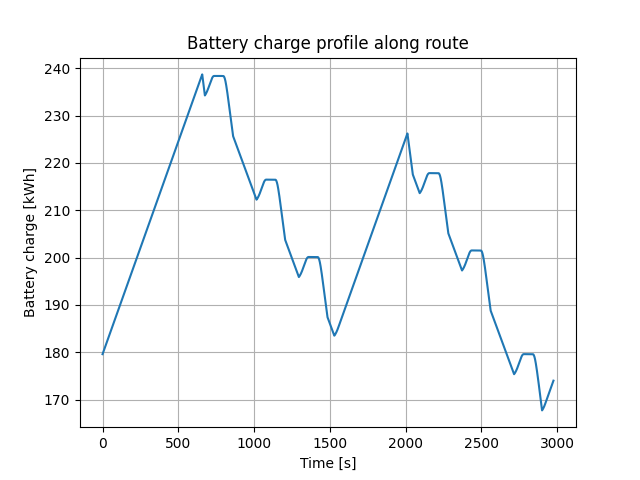
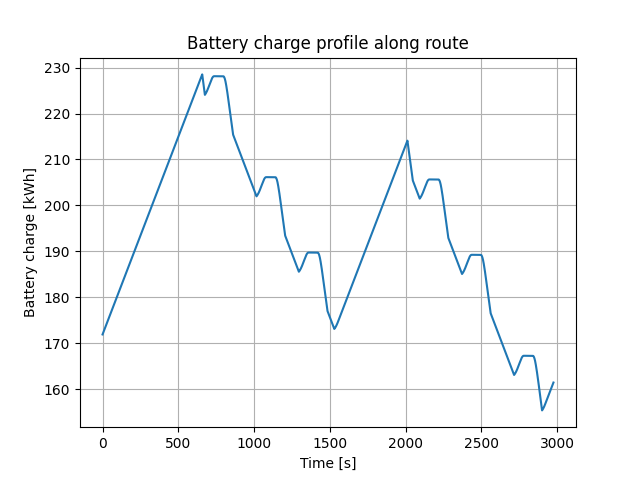
Add utilities power parameter to TrainSimulation and update related files

diff --git a/globals.py b/globals.py
@@ -10,6 +10,7 @@ max_speed = 120 / 3.6   # m/s
 safety_factor = 0.2     # Safety factor for how much power remains at the end of the day
 round_trips = 19    # Number of round trips to be made in a single day
 dt = 0.1             # Time step for simulation
+utilities_power = 35   # kW, power used for lighting, air conditioning, etc.
 using_pantograph = True
 
 # Acceleration and deceleration profile parameters

diff --git a/main.py b/main.py
@@ -26,6 +26,7 @@ def main(debug=True):
         regen_eff=globals.regen_eff,
         charge_rate=globals.Li_ion_charge_rate,
         discharge_rate=globals.Li_ion_discharge_rate,
+        utilities_power=globals.utilities_power,
         dt=globals.dt,
         using_pantograph = globals.using_pantograph
     )

diff --git a/simulation.py b/simulation.py
@@ -20,8 +20,8 @@ class TrainSimulation:
     regen_eff,
     charge_rate,
     discharge_rate,
+    utilities_power,
     dt=1.0,
-    utilities_power=0.0,
     using_pantograph=True
     ):
         self.route_length = route_data['route_length']
